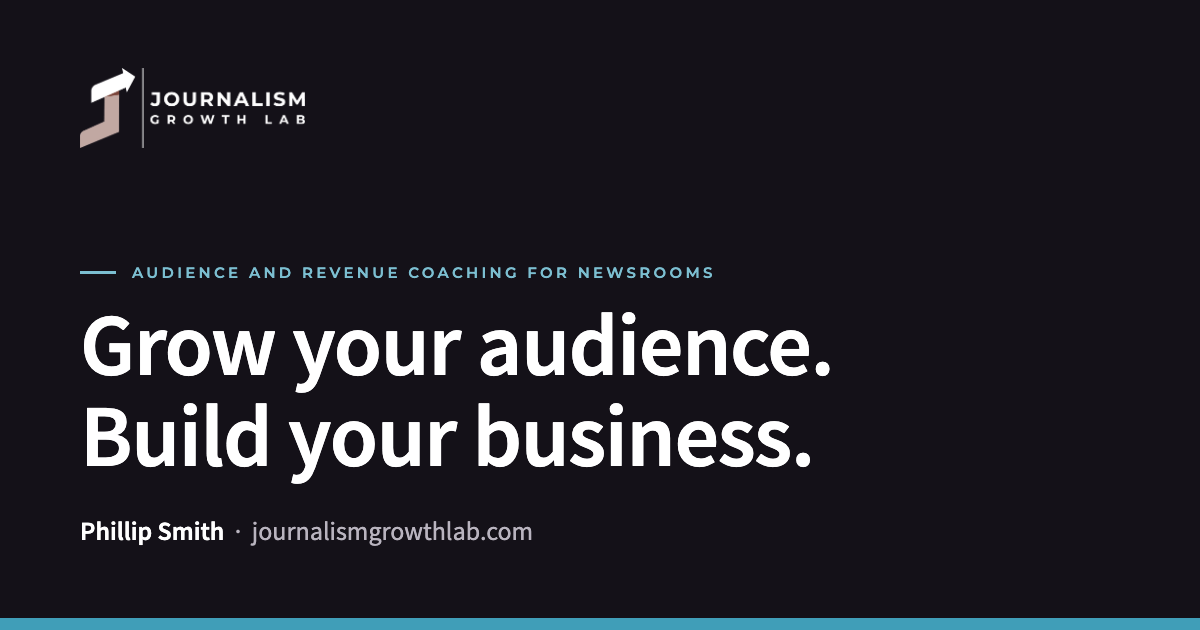
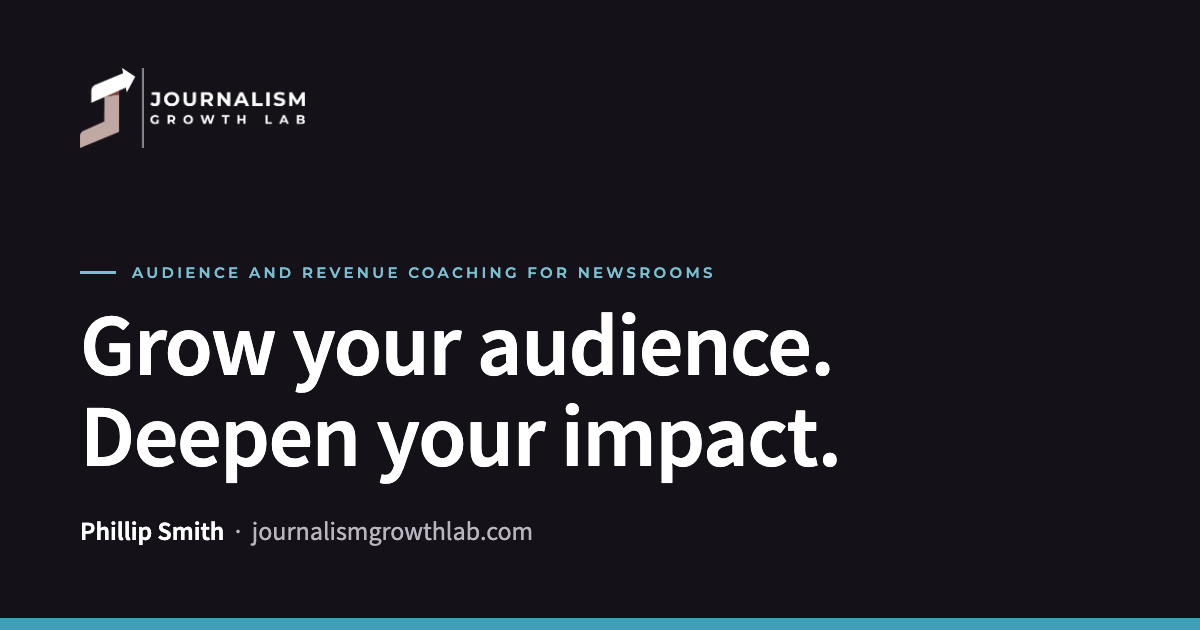
Share card headline: Grow your audience. Deepen your impact.

Changed region(s): [[0.0617, 0.6333, 0.7092, 0.7841]]

diff --git a/index.html b/index.html
@@ -29,7 +29,7 @@
     <meta property="og:image" content="https://journalismgrowthlab.com/static/jgl-social-share-2026.png">
     <meta property="og:image:width" content="1200">
     <meta property="og:image:height" content="630">
-    <meta property="og:image:alt" content="Journalism Growth Lab: Grow your audience. Build your business. Phillip Smith, audience and revenue coaching for newsrooms.">
+    <meta property="og:image:alt" content="Journalism Growth Lab: Grow your audience. Deepen your impact. Phillip Smith, audience and revenue coaching for newsrooms.">
     <meta property="og:site_name" content="Journalism Growth Lab">
     <meta name="facebook-domain-verification" content="pgyrtexe2586ecddm5ks37iyfjx8yj" />
     <!-- Twitter -->
@@ -39,7 +39,7 @@
     <meta property="twitter:description"
         content="Phillip Smith coaches independent newsrooms on growing their audience and revenue, from paid campaigns and newsletter signups to membership and donations.">
     <meta property="twitter:image" content="https://journalismgrowthlab.com/static/jgl-social-share-2026.png">
-    <meta property="twitter:image:alt" content="Journalism Growth Lab: Grow your audience. Build your business. Phillip Smith, audience and revenue coaching for newsrooms.">
+    <meta property="twitter:image:alt" content="Journalism Growth Lab: Grow your audience. Deepen your impact. Phillip Smith, audience and revenue coaching for newsrooms.">
 
     <link rel="preconnect" href="https://fonts.googleapis.com">
     <link rel="preconnect" href="https://fonts.gstatic.com" crossorigin>
